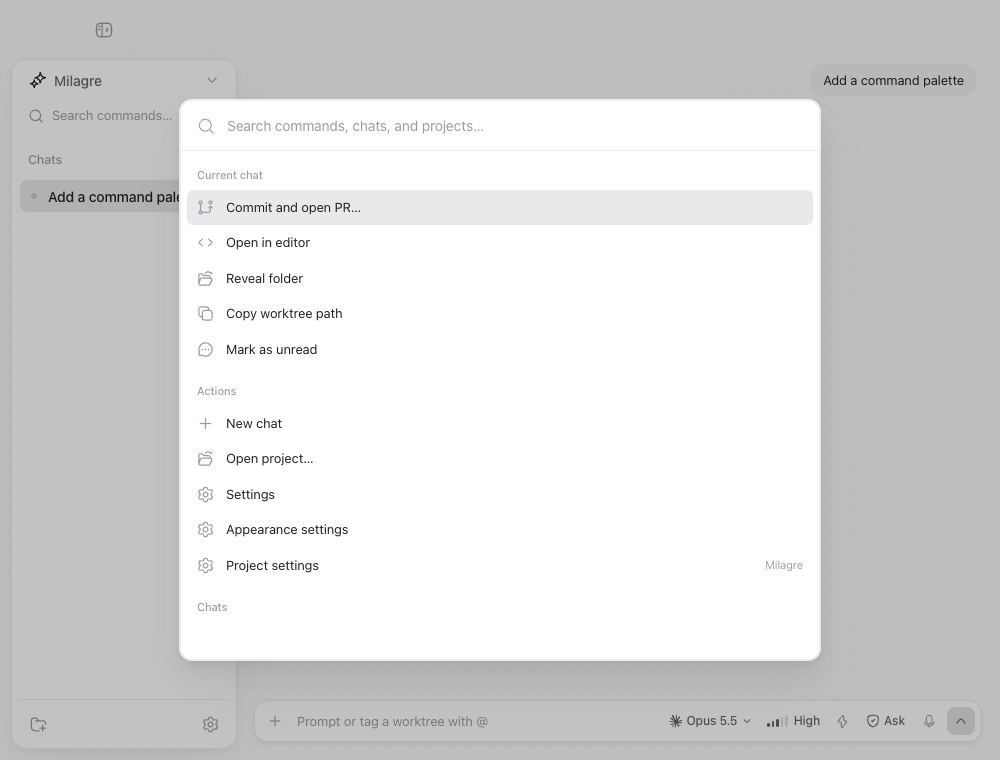
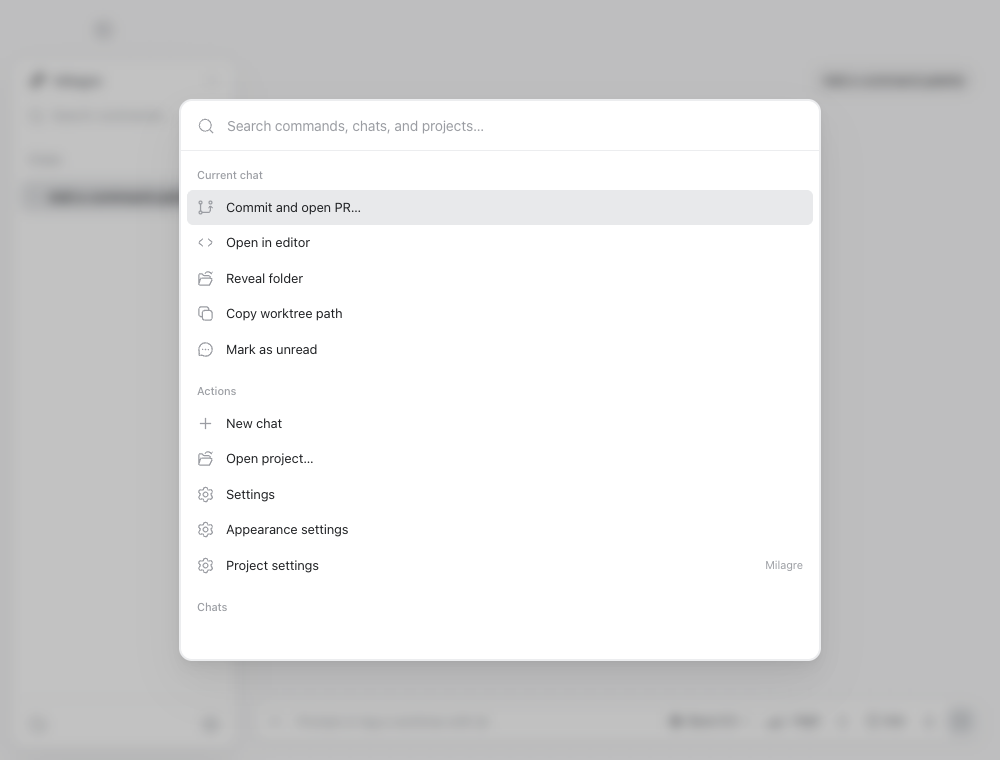
style: blur the command palette backdrop

diff --git a/app/src/styles.css b/app/src/styles.css
@@ -11,7 +11,11 @@
   left: 50%;
   transform: translateX(-50%);
 }
-.command-palette::backdrop { background: rgb(0 0 0 / 24%); }
+.command-palette::backdrop {
+  background: rgb(0 0 0 / 24%);
+  backdrop-filter: blur(6px);
+  -webkit-backdrop-filter: blur(6px);
+}
 
 /* GENERIC FOUNDATION — tokens, @theme, base rules, the primitive-*
  * spacing utilities, and shared keyframes below are needed by EVERY
